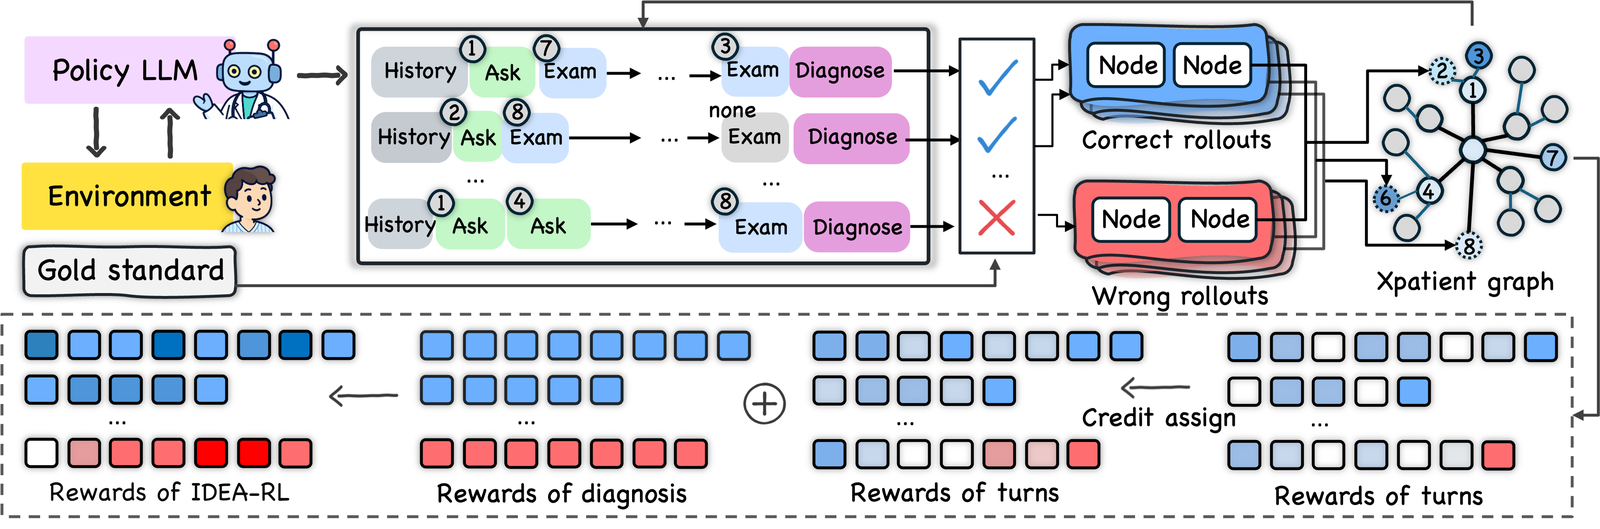
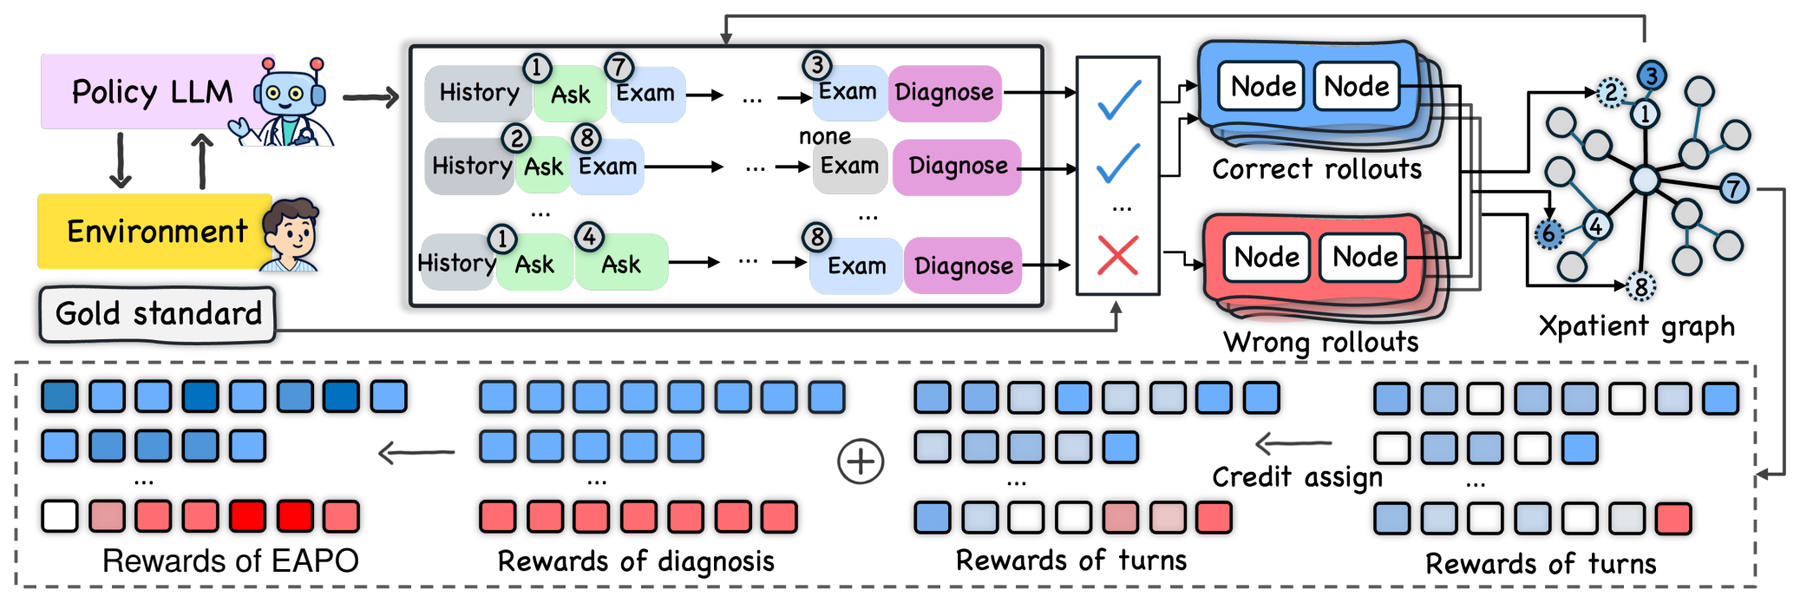
Update IDEA-RL showcase with latest figures and results from acl2027 manuscript

diff --git a/index.html b/index.html
@@ -147,7 +147,7 @@
               I am a Computer Science and Technology graduate of <strong>Hangzhou Dianzi University</strong> (B.Eng., July 2026; GPA 4.28/5.0) and currently a Visiting Research Student with <strong>Prof. Liyue Shen</strong> at the <strong>University of Michigan</strong>. Previously, I interned as a Medical AI Researcher with <strong>Dr. Le Lu</strong> at <strong>Ant Group</strong>, following research internships at <strong>Westlake University</strong> and <strong>Tsinghua University</strong>.
             </p>
             <p>
-              My research bridges two complementary fronts: (1) <strong>medical image-assisted diagnosis and longitudinal patient world models</strong> for missing-modality 3D MRI and forecasting subsequent tumor progression (<em>PD</em> and <em>BN20</em> scores), and (2) <strong>multi-turn clinical consultation</strong> via fact-grounded patient simulation (<em>XPatient</em>) and evidence-attributed reinforcement learning (<em>IDEA-RL</em>). Going forward, I aim to unify quantitative image analysis with longitudinal clinical questioning so diagnostic agents know both what evidence to inspect and when to ask.
+              My research bridges two complementary fronts: (1) <strong>medical image-assisted diagnosis and longitudinal patient world models</strong> for missing-modality 3D MRI and forecasting subsequent tumor progression (<em>PD</em> and <em>BN20</em> scores), and (2) <strong>multi-turn clinical consultation</strong> via fact-grounded patient simulation (<em>XPatient</em>) and critic-free evidence-advantage reinforcement learning (<em>IDEA-RL</em> / <em>EAPO</em>). Going forward, I aim to unify quantitative image analysis with longitudinal clinical questioning so diagnostic agents know both what evidence to inspect and when to ask.
             </p>
           </div>
 
@@ -276,19 +276,27 @@
             <span class="venue-pill venue-pill--burgundy">IDEA-RL · 2026</span>
             <div class="pub-slide-tabs" role="group" aria-label="IDEA-RL figures">
               <button class="pub-slide-tab is-active" type="button" aria-pressed="true">Model</button>
+              <button class="pub-slide-tab" type="button" aria-pressed="false">Actions</button>
               <button class="pub-slide-tab" type="button" aria-pressed="false">XPatient</button>
+              <button class="pub-slide-tab" type="button" aria-pressed="false">Dynamics</button>
               <button class="pub-slide-tab" type="button" aria-pressed="false">Results</button>
             </div>
           </div>
           <div class="pub-stage" data-paper-title="IDEA-RL &amp; XPatient">
-            <div class="pub-slide is-current" data-slide-label="Model" data-caption="IDEA-RL aligns shared evidence identities across trajectories and assigns outcome-associated process credit to first evidence acquisition.">
-              <img src="/images/publications/idea-rl.png" alt="Overview of IDEA-RL trajectory credit assignment" loading="lazy">
+            <div class="pub-slide is-current" data-slide-label="Model" data-caption="Overview of EAPO within IDEA-RL: XPatient grounds actions in a case evidence graph across trajectories (top), and EAPO pools cross-trajectory evidence outcomes with backward credit assignment (bottom).">
+              <img src="/images/publications/idea-rl.png" alt="Overview of EAPO within IDEA-RL" loading="lazy">
             </div>
-            <div class="pub-slide" data-slide-label="XPatient" data-caption="XPatient constrains patient responses to grounded clinical case graphs across ask, examination, and diagnosis actions.">
-              <img src="/images/publications/idea-rl-xpatient.png" alt="XPatient fact-constrained patient simulation pipeline" loading="lazy">
+            <div class="pub-slide" data-slide-label="Actions" data-caption="Action quality, update compute, and OOD performance: EAPO raises effective actions while matching GRPO update TFLOPs (128.54 vs. 247.52 for PPO) and reaching 44.9% Jaccard on PMC-Patients-v2.">
+              <img src="/images/publications/idea-rl-actions.png" alt="IDEA-RL action quality, update compute, and PMC-Patients-v2 Jaccard performance" loading="lazy">
             </div>
-            <div class="pub-slide" data-slide-label="Results" data-caption="Out-of-distribution PMC-Patients diagnostic accuracy vs. model scale: IDEA-RL-0.6B and IDEA-RL-4B outperform much larger baselines.">
-              <img src="/images/publications/idea-rl-results.png" alt="IDEA-RL diagnostic accuracy vs model parameter scale on PMC-Patients OOD" loading="lazy">
+            <div class="pub-slide" data-slide-label="XPatient" data-caption="Comparison across five patient interaction capabilities (Domain Routing, Attribute Target, Context Use, Multi Intent, Empty Match) against AI patient frameworks and raw-EHR LLMs.">
+              <img src="/images/publications/idea-rl-xpatient.png" alt="XPatient five-capability polar bar benchmark against AI patient frameworks and raw-EHR LLMs" loading="lazy">
+            </div>
+            <div class="pub-slide" data-slide-label="Dynamics" data-caption="Training dynamics across GRPO, w/o EAR, w/o CA, and EAPO: EAPO raises overall action efficiency to 80%, inquiry efficiency to 62%, and examination efficiency to 99%.">
+              <img src="/images/publications/idea-rl-dynamics.png" alt="Eight-panel training dynamics comparing EAPO against GRPO and ablations" loading="lazy">
+            </div>
+            <div class="pub-slide" data-slide-label="Results" data-caption="Benchmark comparison across MIMIC-IV, DDxPlus, and OOD PMC-Patients-v2: Qwen3-4B with EAPO surpasses GPT-4o, GPT-4.1, Gemini 2.5 Flash, MedGemma-27B, and Baichuan-M2-32B.">
+              <img src="/images/publications/idea-rl-results.png" alt="Benchmark comparison table across MIMIC-IV, DDxPlus, and PMC-Patients-v2" loading="lazy">
             </div>
             <span class="zoom-hint">Click to zoom</span>
             <div class="pub-progress-track"><div class="pub-progress-fill"></div></div>
@@ -299,11 +307,12 @@
               <span class="pub-mini-tag">Multi-Turn Consultation</span>
               <span class="pub-mini-tag">Process RL</span>
             </div>
-            <h3 class="pub-title">IDEA-RL &amp; XPatient: Fact-Grounded Patient Simulation and Evidence-Attributed Policy Optimization for Multi-Turn Clinical Consultation</h3>
+            <h3 class="pub-title">IDEA-RL &amp; XPatient: Structured Clinical Simulation and Evidence Advantage Policy Optimization for Multi-Turn Clinical Consultation</h3>
             <p class="pub-authors"><strong>First author</strong></p>
             <p class="pub-venue">2026</p>
-            <p class="pub-takeaway">Constrains simulated patient responses to case facts and aligns shared evidence identities across trajectories to assign outcome-associated process credit to first acquisition without a learned critic.</p>
+            <p class="pub-takeaway">Pairs structured request-scoped simulation in XPatient with critic-free Evidence Advantage Policy Optimization (EAPO), pooling outcome-associated evidence scores across same-case trajectories and propagating first-acquisition credit backward.</p>
             <div class="pub-footer">
+              <a class="pub-btn" href="/idea-rl/">Project Page</a>
               <button class="pub-btn" type="button" data-bibtex-id="xpatient" data-bibtex-title="IDEA-RL &amp; XPatient">BibTeX</button>
             </div>
           </div>

diff --git a/assets/js/modern-home.js b/assets/js/modern-home.js
@@ -6,7 +6,7 @@
 
   const BIBTEX_MAP = {
     xpatient: `@misc{zhu2026idearl,
-  title  = {IDEA-RL and XPatient: Fact-Grounded Patient Simulation and Evidence-Attributed Policy Optimization for Multi-Turn Clinical Consultation},
+  title  = {IDEA-RL and XPatient: Structured Clinical Simulation and Evidence Advantage Policy Optimization for Multi-Turn Clinical Consultation},
   author = {Zhu, Shenghao},
   year   = {2026}
 }`,

diff --git a/assets/css/modern-home.css b/assets/css/modern-home.css
@@ -816,11 +816,12 @@ html[data-theme="dark"] .hero-signature__img {
 .pub-slide-tabs {
   display: inline-flex;
   align-items: center;
+  flex-wrap: wrap;
   gap: 4px;
 }
 
 .pub-slide-tab {
-  padding: 3px 9px;
+  padding: 3px 8px;
   border-radius: 999px;
   border: 1px solid #e2e8f0;
   background: #f8fafc;

diff --git a/scripts/validate_homepage.py b/scripts/validate_homepage.py
@@ -53,7 +53,9 @@ def check_structure() -> None:
         "files/Shenghao_Zhu_CV.pdf",
         "images/github-calligraphy-signature.png",
         "images/publications/idea-rl.png",
+        "images/publications/idea-rl-actions.png",
         "images/publications/idea-rl-xpatient.png",
+        "images/publications/idea-rl-dynamics.png",
         "images/publications/idea-rl-results.png",
         "assets/css/modern-home.css",
         "assets/js/modern-home.js",
@@ -119,8 +121,10 @@ def check_content_and_safety() -> None:
     require(len(pub_cards) == 8, f"Expected 8 publication cards, found {len(pub_cards)}")
     unpublished_forbidden = ["Yefeng Zheng", "Zhaojie Fang", "Liyue Shen", "Yifei Chen", "Weihong Chen"]
     for idx, card in enumerate(pub_cards, start=1):
-        slides = re.findall(r'class="pub-slide\b', card)
+        slides = re.findall(r'class="pub-slide(?:\s|")', card)
         require(len(slides) >= 2, f"Publication card #{idx} must contain at least 2 slides, found {len(slides)}")
+        if "IDEA-RL &amp; XPatient" in card:
+            require(len(slides) == 5, f"IDEA-RL & XPatient card must contain 5 slides, found {len(slides)}")
         if any(marker in card for marker in ("IDEA-RL &amp; XPatient", "ReBorn:", "GFE-Mamba:")):
             for name in unpublished_forbidden:
                 require(name not in card, f"Unpublished/under-review card #{idx} must not list coauthor/advisor '{name}'")
